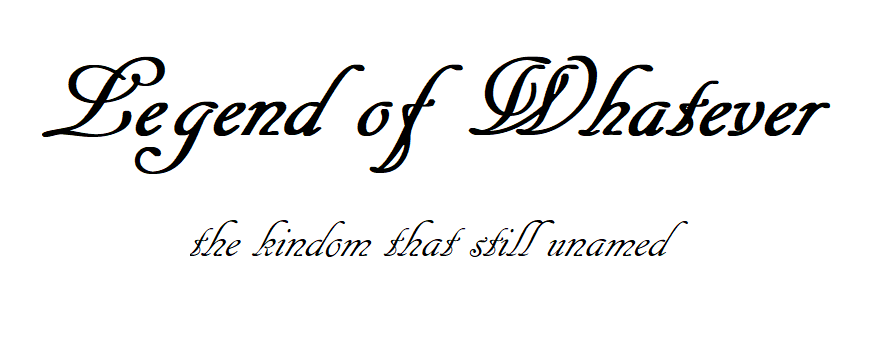
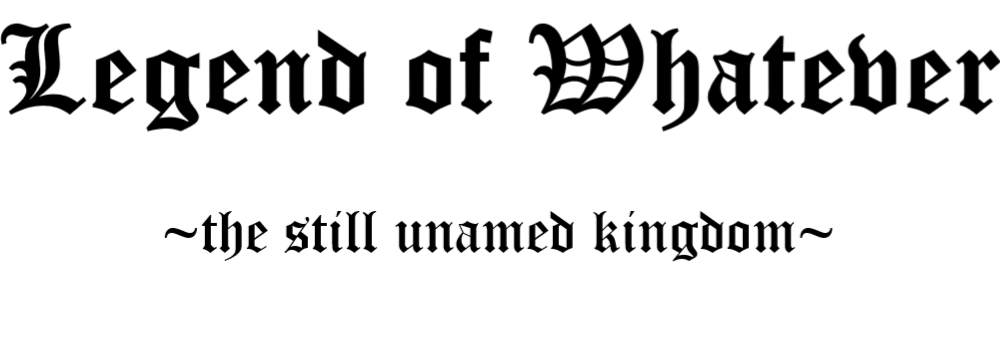
change the title & add dead message

Changed region(s): [[0.0, 0.0625, 1.0, 0.5], [0.1534, 0.5938, 0.8284, 0.75]]

diff --git a/Main/Main.java b/Main/Main.java
@@ -87,25 +87,26 @@ public class Main extends Application {
             openning.reborn(root);
             p.setPos(LoadSave.temp[0],LoadSave.temp[1]);
          }
-         if (ke.getCode() == KeyCode.S && openning.isDead == false) LoadSave.save(p,s);
-         if (ke.getCode() == KeyCode.L && openning.isDead == false) LoadSave.load();
-         if (ke.getCode() == KeyCode.LEFT && openning.isDead == false) p.Leftpress = true;
-         else if (ke.getCode() == KeyCode.RIGHT && openning.isDead == false) p.Rightpress = true;
-         else if (ke.getCode() == KeyCode.SPACE && openning.isDead == false) p.Jump = true;
-         else if (ke.getCode() == KeyCode.SHIFT && openning.isDead == false) p.Shift = true;
-         else if (ke.getCode() == KeyCode.E && openning.isDead == false) {
-            if(p.getX()-t.getX()<200) t.infoWindow = true;
+         if(openning.isDead == false){
+            //if (ke.getCode() == KeyCode.S) LoadSave.save(p,s);
+            if (ke.getCode() == KeyCode.LEFT) p.Leftpress = true;
+            else if (ke.getCode() == KeyCode.RIGHT) p.Rightpress = true;
+            else if (ke.getCode() == KeyCode.SPACE) p.Jump = true;
+            else if (ke.getCode() == KeyCode.SHIFT) p.Shift = true;
+            else if (ke.getCode() == KeyCode.E) {
+               if(p.getX()-t.getX()<200) t.infoWindow = true;
+            }
+            /*else if (ke.getCode() == KeyCode.R){
+               p.setPos(9000,700);
+               p.setMy(0);
+               p.Cam[0]=0;
+               p.Cam[1]=0;
+               p.World[0]=0;
+               p.World[1]=0;
+               p.newBornInGame=true;
+               p.damaged=false;
+            }*/
          }
-         /*else if (ke.getCode() == KeyCode.R && openning.isDead == false){
-            p.setPos(9000,700);
-            p.setMy(0);
-            p.Cam[0]=0;
-            p.Cam[1]=0;
-            p.World[0]=0;
-            p.World[1]=0;
-            p.newBornInGame=true;
-            p.damaged=false;
-         }*/
       });
 
       scene.setOnKeyReleased(ke -> {
@@ -237,7 +238,7 @@ public class Main extends Application {
             }
             if(p.redBlood.getWidth()<=0){
                LoadSave.load();
-               openning.deadScreen(root);
+               openning.deadScreen(root,stage);
                p.Leftpress = false;
                p.Rightpress = false;
                p.Jump = false;

diff --git a/Main/Openning.java b/Main/Openning.java
@@ -45,6 +45,9 @@ public class Openning{
     private Image loadingScreen = new Image("pic/loadingscreen.png");
     private ImageView loadingView = new ImageView(loadingScreen);
 
+    private Image deadMBase = new Image("pic/deadmessage.png");
+    private ImageView deadMBaseView = new ImageView(deadMBase);
+
     public Rectangle bar = new Rectangle();
     public Rectangle stroke = new Rectangle();
     public Rectangle dScreen= new Rectangle();
@@ -123,7 +126,7 @@ public class Openning{
         root.getChildren().remove(titleView);
     }
 
-    public void deadScreen(Group root){
+    public void deadScreen(Group root, Stage stage){
         dScreen.setFill(Color.rgb(105,0,0,lightDegree));
         dScreen.setStroke(Color.rgb(105,0,0,lightDegree));
         dScreen.setHeight(1080);
@@ -131,11 +134,15 @@ public class Openning{
         dScreen.setX(0);
         dScreen.setY(0);
 
+        deadMBaseView.setX(stage.getWidth()/2-deadMBase.getWidth()/2);
+        deadMBaseView.setY(stage.getHeight()/2-deadMBase.getHeight()/2);
+
         time = 0;
         isDead = true;
 
         root.getChildren().add(dScreen);
         root.getChildren().add(hintView);
+        root.getChildren().add(deadMBaseView);
     }
 
     public void deadSdarker(){
@@ -163,7 +170,7 @@ public class Openning{
         transparentOne.setStroke(Color.rgb(0,0,0,lightDegree));
         transparentOne.setX(0);
         transparentOne.setY(0);
-        transparentOne.setHeight(108);
+        transparentOne.setHeight(13);
         transparentOne.setWidth(1920);
 
         root.getChildren().add(blackOne);
@@ -181,17 +188,14 @@ public class Openning{
 
         if(t <= 1080){
             blackOne.setHeight(t);
-            transparentOne.setHeight(108 + t);
-            if(t == 1080){
-                root.getChildren().remove(dScreen);
-                root.getChildren().remove(hintView);
-            }
+            transparentOne.setHeight(13 + t);
         }
         else if(t <= 2160){
             root.getChildren().remove(dScreen);
             root.getChildren().remove(hintView);
+            root.getChildren().remove(deadMBaseView);
             blackOne.setHeight(2160-t);
-            transparentOne.setHeight(2268-t);
+            transparentOne.setHeight(2173-t);
         }
         else{
             isDead = false;
